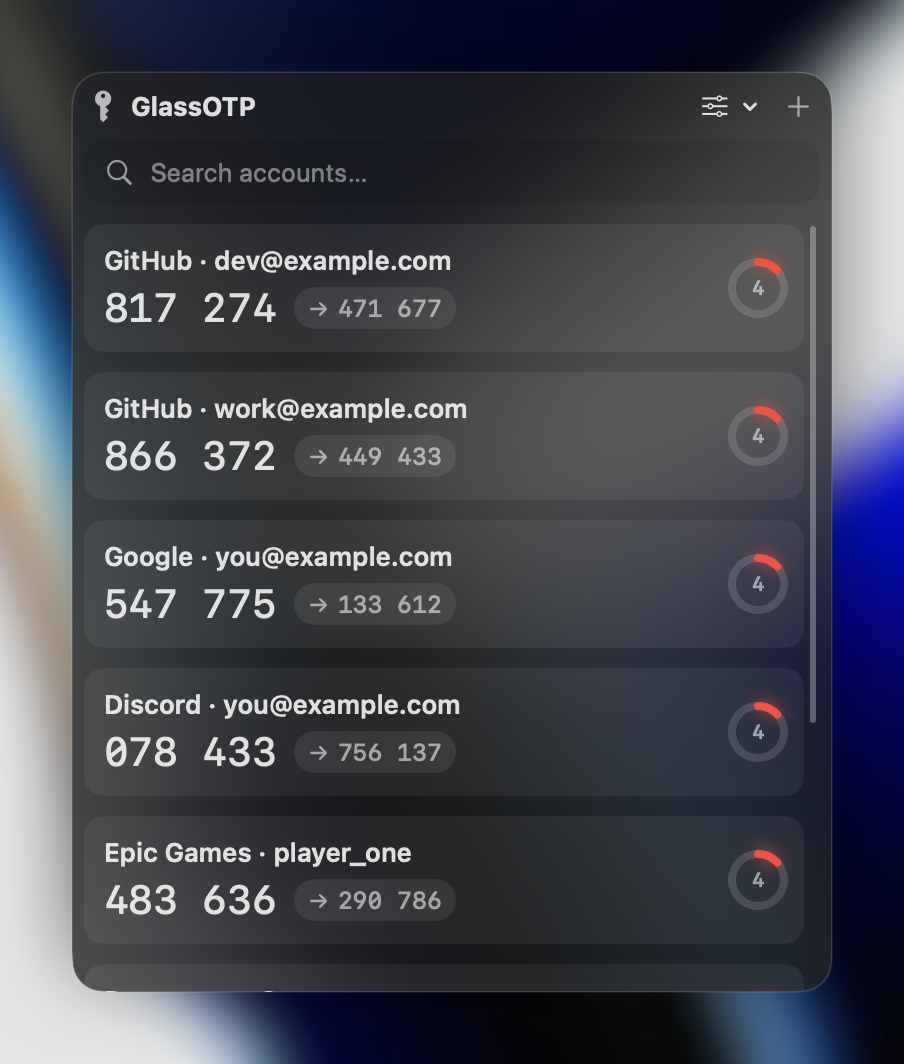
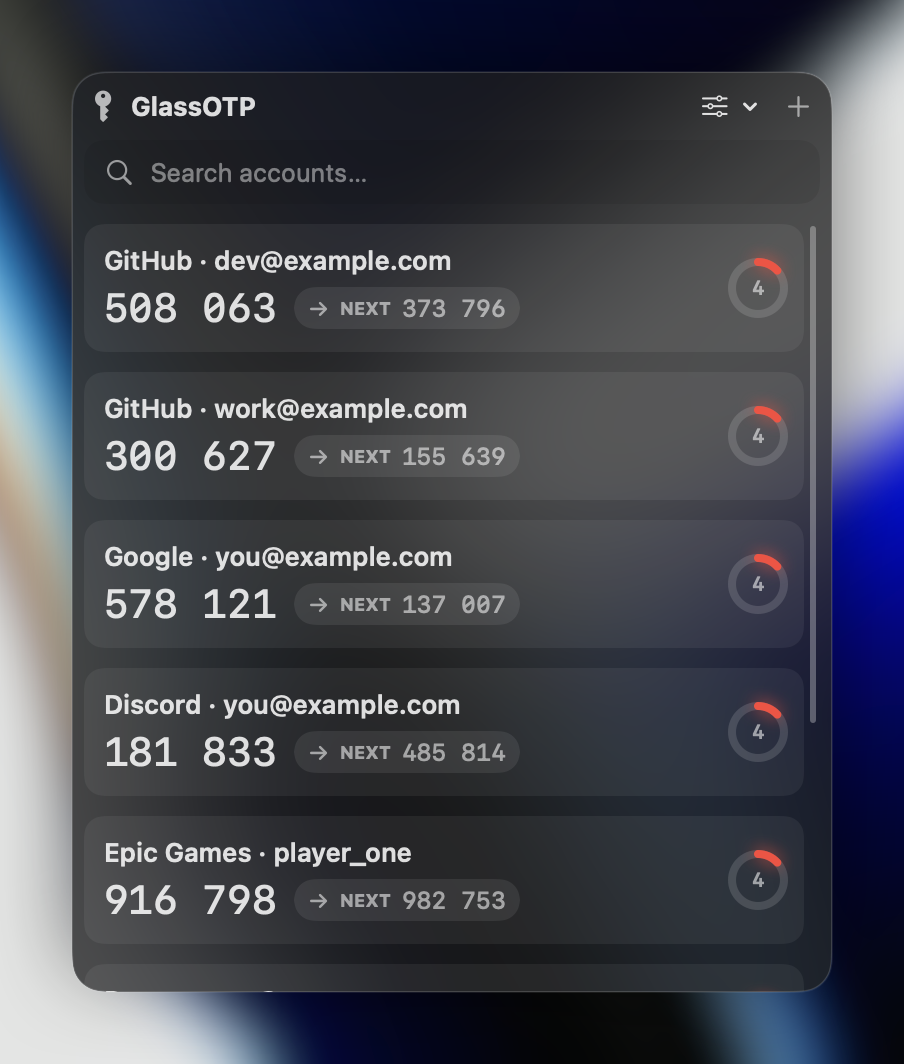
fix: align countdown ticks to second boundaries; clearer next-code badge
- Countdown no longer skips or repeats seconds: ticks are aligned to second boundaries and protected from App Nap while the window is open
- Timer stays stopped until the window is opened
- Next code badge: NEXT label, glint when it appears, highlight showing which code will be copied, "Copied next" confirmation
- README and screenshots updated

diff --git a/UI/TokenRowView.swift b/UI/TokenRowView.swift
@@ -16,7 +16,7 @@ enum CodeClipboard {
 
 struct TokenRowView: View {
     static let nextCodeThreshold = 5
-    private static let copiedFeedbackDuration: TimeInterval = 2.0
+    static let copiedFeedbackDuration: TimeInterval = 2.0
     private static let codeChangeAnimation = Animation.spring(response: 0.35, dampingFraction: 0.8)
 
     let title: String
@@ -31,7 +31,7 @@ struct TokenRowView: View {
     let onCopy: () -> Void
 
     @State private var copied = false
-    @State private var copiedNext = false
+    @State private var hoveringRow = false
     @State private var hoveringNext = false
     @State private var pulse = false
 
@@ -44,6 +44,28 @@ struct TokenRowView: View {
 
     private var showsCopied: Bool {
         copied || copiedExternally
+    }
+
+    private var targetsCurrentCode: Bool {
+        hoveringRow && !hoveringNext && code != nil
+    }
+
+    private var currentCodeOpacity: Double {
+        if showsCopied { return 0.35 }
+        if hoveringNext { return 0.45 }
+        return 1.0
+    }
+
+    private var rowFillOpacity: Double {
+        if isSelected { return 0.12 }
+        if targetsCurrentCode { return 0.10 }
+        return 0.06
+    }
+
+    private var rowStrokeColor: Color {
+        if isSelected { return Color.accentColor.opacity(0.8) }
+        if targetsCurrentCode { return Color.white.opacity(0.16) }
+        return Color.clear
     }
 
     var body: some View {
@@ -63,7 +85,7 @@ struct TokenRowView: View {
                         Text(Self.grouped(code ?? String(repeating: "-", count: digits)))
                             .font(.system(size: 20, weight: .medium, design: .monospaced))
                             .foregroundColor(code == nil ? .secondary : .primary)
-                            .opacity(showsCopied ? 0.35 : 1.0)
+                            .opacity(currentCodeOpacity)
                             .id(code)
                             .transition(.asymmetric(
                                 insertion: .move(edge: .trailing).combined(with: .opacity),
@@ -78,11 +100,22 @@ struct TokenRowView: View {
                             .font(.system(size: 12, weight: .semibold))
                             .transition(.opacity.combined(with: .scale))
                     } else if let nextCode {
-                        nextCodeChip(nextCode)
+                        NextCodeChip(
+                            code: nextCode,
+                            playsSound: playsSound,
+                            hovering: $hoveringNext,
+                            onCopy: onCopy
+                        )
+                        .id(nextCode)
+                        .transition(.asymmetric(
+                            insertion: .move(edge: .leading).combined(with: .opacity),
+                            removal: .opacity
+                        ))
                     }
                 }
                 .animation(Self.codeChangeAnimation, value: code)
                 .animation(Self.codeChangeAnimation, value: nextCode)
+                .animation(.easeInOut(duration: 0.15), value: hoveringNext)
             }
 
             Spacer()
@@ -115,17 +148,19 @@ struct TokenRowView: View {
         .padding(10)
         .background(
             RoundedRectangle(cornerRadius: 10, style: .continuous)
-                .fill(Color.white.opacity(isSelected ? 0.12 : 0.06))
+                .fill(Color.white.opacity(rowFillOpacity))
         )
         .overlay(
             RoundedRectangle(cornerRadius: 10, style: .continuous)
-                .stroke(Color.accentColor.opacity(isSelected ? 0.8 : 0), lineWidth: 1.5)
+                .stroke(rowStrokeColor, lineWidth: isSelected ? 1.5 : 1)
         )
         .contentShape(RoundedRectangle(cornerRadius: 10, style: .continuous))
+        .onHover { hoveringRow = $0 }
         .onTapGesture(perform: copyCurrent)
         .accessibilityAddTraits(.isButton)
         .animation(.easeInOut(duration: 0.2), value: showsCopied)
         .animation(.easeInOut(duration: 0.15), value: isSelected)
+        .animation(.easeInOut(duration: 0.15), value: targetsCurrentCode)
 
         // Пульсация только в последние секунды
         .onAppear {
@@ -134,32 +169,9 @@ struct TokenRowView: View {
         .onChange(of: remaining) { _ in
             startPulse()
         }
-    }
-
-    private func nextCodeChip(_ next: String) -> some View {
-        HStack(spacing: 4) {
-            Image(systemName: copiedNext ? "checkmark" : "arrow.right")
-                .font(.system(size: 9, weight: .bold))
-            Text(copiedNext ? "Copied" : Self.grouped(next))
-                .font(.system(size: 12, weight: .medium, design: .monospaced))
+        .onChange(of: nextCode) { next in
+            if next == nil { hoveringNext = false }
         }
-        .foregroundColor(copiedNext ? .green : (hoveringNext ? .primary : .secondary))
-        .padding(.horizontal, 7)
-        .padding(.vertical, 3)
-        .background(
-            Capsule().fill(Color.white.opacity(hoveringNext ? 0.16 : 0.08))
-        )
-        .contentShape(Capsule())
-        .onHover { hoveringNext = $0 }
-        .onTapGesture { copyNext(next) }
-        .accessibilityAddTraits(.isButton)
-        .help("Next code — copy it to use right away")
-        .animation(.easeInOut(duration: 0.15), value: hoveringNext)
-        .animation(.easeInOut(duration: 0.2), value: copiedNext)
-        .transition(.asymmetric(
-            insertion: .move(edge: .leading).combined(with: .opacity),
-            removal: .opacity
-        ))
     }
 
     private func startPulse() {
@@ -180,27 +192,88 @@ struct TokenRowView: View {
         guard let code else { return }
         CodeClipboard.copy(code, playSound: playsSound)
         onCopy()
-        flash($copied)
-    }
-
-    private func copyNext(_ next: String) {
-        CodeClipboard.copy(next, playSound: playsSound)
-        onCopy()
-        flash($copiedNext)
-    }
-
-    private func flash(_ flag: Binding<Bool>) {
-        flag.wrappedValue = true
+        copied = true
         DispatchQueue.main.asyncAfter(deadline: .now() + Self.copiedFeedbackDuration) {
             withAnimation {
-                flag.wrappedValue = false
+                copied = false
             }
         }
     }
 
-    private static func grouped(_ code: String) -> String {
+    static func grouped(_ code: String) -> String {
         guard code.count >= 6, code.count % 2 == 0 else { return code }
         let middle = code.index(code.startIndex, offsetBy: code.count / 2)
         return String(code[..<middle]) + " " + String(code[middle...])
+    }
+}
+
+private struct NextCodeChip: View {
+    let code: String
+    let playsSound: Bool
+    @Binding var hovering: Bool
+    let onCopy: () -> Void
+
+    @State private var copied = false
+    @State private var glintPhase: CGFloat = 0
+
+    var body: some View {
+        HStack(spacing: 5) {
+            Image(systemName: copied ? "checkmark" : "arrow.right")
+                .font(.system(size: 9, weight: .bold))
+            Text(copied ? "Copied next" : "Next")
+                .font(.system(size: 9, weight: .bold))
+                .textCase(.uppercase)
+            if !copied {
+                Text(TokenRowView.grouped(code))
+                    .font(.system(size: 12, weight: .medium, design: .monospaced))
+            }
+        }
+        .foregroundColor(copied ? .green : (hovering ? .primary : .secondary))
+        .padding(.horizontal, 7)
+        .padding(.vertical, 3)
+        .background(
+            Capsule().fill(hovering ? Color.accentColor.opacity(0.28) : Color.white.opacity(0.08))
+        )
+        .overlay(
+            Capsule().strokeBorder(hovering ? Color.accentColor.opacity(0.8) : Color.clear, lineWidth: 1)
+        )
+        .overlay(glint)
+        .contentShape(Capsule())
+        .onHover { hovering = $0 }
+        .onTapGesture(perform: copy)
+        .accessibilityAddTraits(.isButton)
+        .help("Copy the next code")
+        .animation(.easeInOut(duration: 0.15), value: hovering)
+        .animation(.easeInOut(duration: 0.2), value: copied)
+        .onAppear {
+            withAnimation(.easeInOut(duration: 0.9).delay(0.35)) {
+                glintPhase = 1
+            }
+        }
+    }
+
+    private var glint: some View {
+        GeometryReader { geometry in
+            LinearGradient(
+                colors: [Color.white.opacity(0), Color.white.opacity(0.65), Color.white.opacity(0)],
+                startPoint: .leading,
+                endPoint: .trailing
+            )
+            .frame(width: geometry.size.width * 0.45)
+            .offset(x: -geometry.size.width * 0.45 + glintPhase * geometry.size.width * 1.45)
+        }
+        .clipShape(Capsule())
+        .allowsHitTesting(false)
+    }
+
+    private func copy() {
+        CodeClipboard.copy(code, playSound: playsSound)
+        onCopy()
+        copied = true
+        DispatchQueue.main.asyncAfter(deadline: .now() + TokenRowView.copiedFeedbackDuration) {
+            withAnimation {
+                copied = false
+            }
+        }
     }
 }

diff --git a/Services/Utils/TimeStepTimer.swift b/Services/Utils/TimeStepTimer.swift
@@ -3,7 +3,10 @@ import Foundation
 final class TimeStepTimer: ObservableObject {
     @Published var now: Date = Date()
 
+    private static let boundaryOffset: TimeInterval = 0.03
+
     private var timer: Timer?
+    private var activity: NSObjectProtocol?
 
     init() {
         start()
@@ -16,11 +19,22 @@ final class TimeStepTimer: ObservableObject {
     private func start() {
 
         now = Date()
+        activity = ProcessInfo.processInfo.beginActivity(
+            options: .userInitiatedAllowingIdleSystemSleep,
+            reason: "Live OTP countdown"
+        )
+        scheduleNextTick()
+    }
 
-        let t = Timer(timeInterval: 1, repeats: true) { [weak self] _ in
-            self?.now = Date()
+    private func scheduleNextTick() {
+        let current = Date().timeIntervalSince1970
+        let delay = current.rounded(.down) + 1 + Self.boundaryOffset - current
+        let t = Timer(timeInterval: delay, repeats: false) { [weak self] _ in
+            guard let self else { return }
+            self.now = Date()
+            self.scheduleNextTick()
         }
-        t.tolerance = 0.3
+        t.tolerance = 0.01
         // .common keeps the countdown ticking during menu tracking / scrolling,
         // which a default-mode scheduled timer would pause.
         RunLoop.main.add(t, forMode: .common)
@@ -30,8 +44,12 @@ final class TimeStepTimer: ObservableObject {
     private func stop() {
         timer?.invalidate()
         timer = nil
+        if let activity {
+            ProcessInfo.processInfo.endActivity(activity)
+            self.activity = nil
+        }
     }
-    
+
     func resume() {
         if timer == nil {
             start()
@@ -41,5 +59,5 @@ final class TimeStepTimer: ObservableObject {
     func pause() {
         stop()
     }
-    
+
 }

diff --git a/App/StatusBarController.swift b/App/StatusBarController.swift
@@ -91,6 +91,8 @@ final class StatusBarController: NSObject {
         hotKeyCancellable = appState.$globalHotKeyEnabled.sink { [weak self] enabled in
             self?.setHotKey(enabled: enabled)
         }
+
+        store.timer.pause()
     }
 
     deinit {

diff --git a/README.md b/README.md
@@ -104,7 +104,15 @@ Click any row to copy its current code. A countdown ring shows how long the code
 
 ### Next code
 
-In the last **5 seconds** of a period, the next code appears next to the current one. Click it to copy it right away instead of waiting for the countdown — most services also accept the neighbouring code. When the period rolls over, the next code slides into place.
+In the last **5 seconds** of a period, the next code appears next to the current one in a **NEXT** badge, with a short glint so you notice it. Click the badge to copy the next code right away instead of waiting for the countdown — most services also accept the neighbouring code.
+
+It is always clear which code you will copy:
+
+- Pointer over the row — the row is highlighted and the **current** code is copied.
+- Pointer over **NEXT** — the badge lights up, the current code dims and the **next** code is copied.
+- After copying, the row shows **Copied** or the badge shows **Copied next**.
+
+When the period rolls over, the next code slides into place.
 
 <p align="center">
   <img src="screenshots/next-code.png" width="452" alt="Next code next to the current one">
